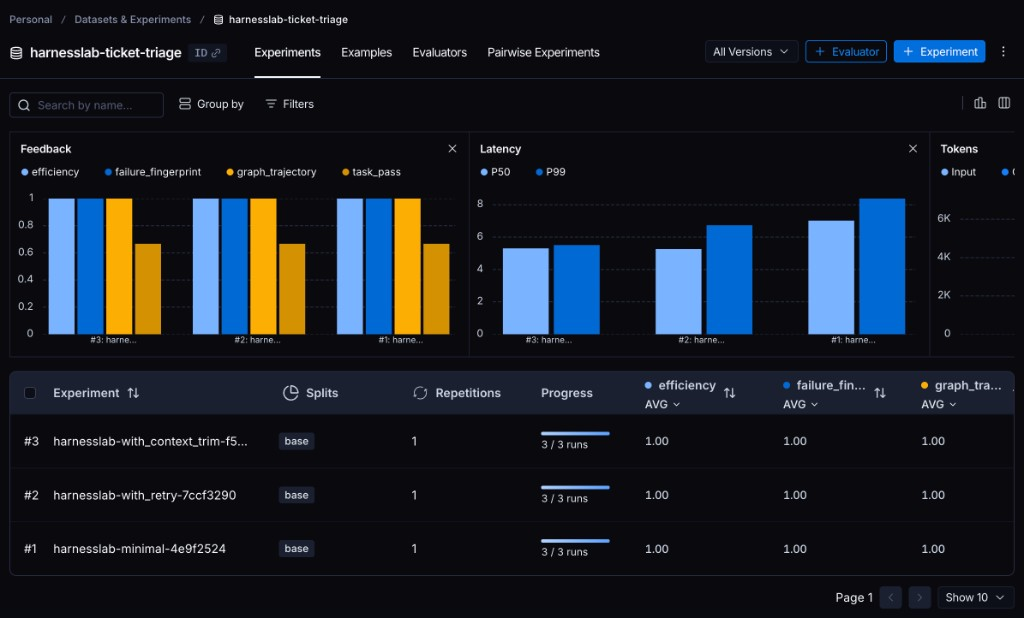
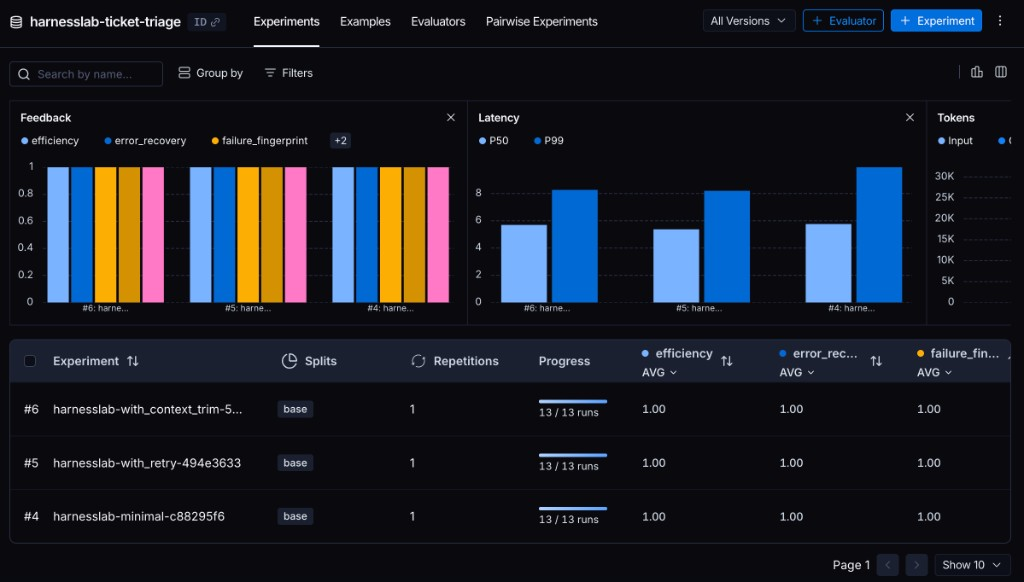
Update LangSmith dashboard screenshots and storage docs.
Replace the experiment comparison image with the 13-task run results and add a per-task drill-down screenshot explaining where harness variance shows up.

diff --git a/README.md b/README.md
@@ -28,19 +28,33 @@ flowchart LR
 
 ## LangSmith dashboard
 
-When you run `compare` without `--local`, LangSmith hosts the full experiment view. The screenshot below shows three experiments on the `harnesslab-ticket-triage` dataset — one per harness variant.
+When you run `compare` **without** `--local`, every run is stored in LangSmith — traces, evaluator scores, latency, and token usage. HarnessLab does not maintain a separate database; LangSmith is the system of record. A local `report.html` is also written, but the dataset and experiments persist in your LangSmith project (`harnesslab-ticket-triage`) until you delete them.
 
-![LangSmith experiment comparison for harnesslab-ticket-triage](docs/images/langsmith-dashboard.png)
+The screenshot below shows three experiments (13 tasks each) — one per harness variant:
+
+![LangSmith experiment comparison across three harness variants](docs/images/langsmith-dashboard.png)
 
 | UI area | What it shows |
 |---|---|
-| **Experiments tab** | All runs for this dataset. Each row is one harness variant (`harnesslab-minimal`, `with_retry`, `with_context_trim`). |
-| **Feedback chart** | Average evaluator scores per experiment. Here `task_pass` ≈ 0.67 (2 of 3 tasks correct); the other metrics are 1.0 because the agent completed without errors. |
-| **Latency chart** | P50 and P99 response time per harness. `with_context_trim` is fastest here — trimming history reduced round-trip time even though correctness was unchanged. |
-| **Tokens chart** | Input/output token usage per experiment — useful for spotting harnesses that bloat context. |
-| **Experiment table** | Click any row to drill into individual task runs, full message traces, tool calls, and per-evaluator comments. |
+| **Experiments tab** | All runs for this dataset. Each row is one harness variant. Progress `13/13` means every task completed. |
+| **Feedback chart** | Average evaluator scores per experiment. Aggregate bars look similar because most tasks are easy — harness differences show up on stress tasks and in per-row drill-down. |
+| **Latency chart** | P50 and P99 response time per harness. Here `with_context_trim` (#6) has the lowest P50; `minimal` (#4) has the highest P99. |
+| **Tokens chart** | Input/output token usage per experiment. |
+| **Experiment table** | Click a row to open per-task scores. Look at `task_pass` and `tool_sequence` averages — not just `efficiency` / `error_recovery`, which stay at 1.0 when runs finish cleanly. |
 
-The local `report.html` is a summary table. **LangSmith is where the detail lives** — per-run traces, node-by-node graph execution, and evaluator breakdowns.
+### Per-task scores
+
+Click an experiment row to see **individual trial results**. This is where harness differences actually appear — aggregate charts smooth them out.
+
+![LangSmith per-task evaluator scores for one experiment](docs/images/langsmith-per-task.png)
+
+In this `with_context_trim` run, `task_pass` averages **0.69** and `tool_sequence` **0.77** — several tasks score 0.0 (red) even though experiment-level `error_recovery` and `efficiency` are 1.0. That pattern is expected:
+
+- **`error_recovery` / `efficiency` / `failure_fingerprint` at 1.0** — the agent finished without crashing; these measure completion and resource use, not answer correctness.
+- **`task_pass` / `tool_sequence` below 1.0** — the agent gave a wrong category, missed reply terms, or skipped a tool in the expected sequence.
+- **Harness comparison** — open the same per-task view for `minimal` vs `with_retry` vs `with_context_trim` and compare rows 11–13 (stress tasks) side by side.
+
+The local `report.html` mirrors this with a per-task breakdown table. **LangSmith is where traces live** — click any red row to open the full agent loop for that task.
 
 ### Agent loop trace
 
